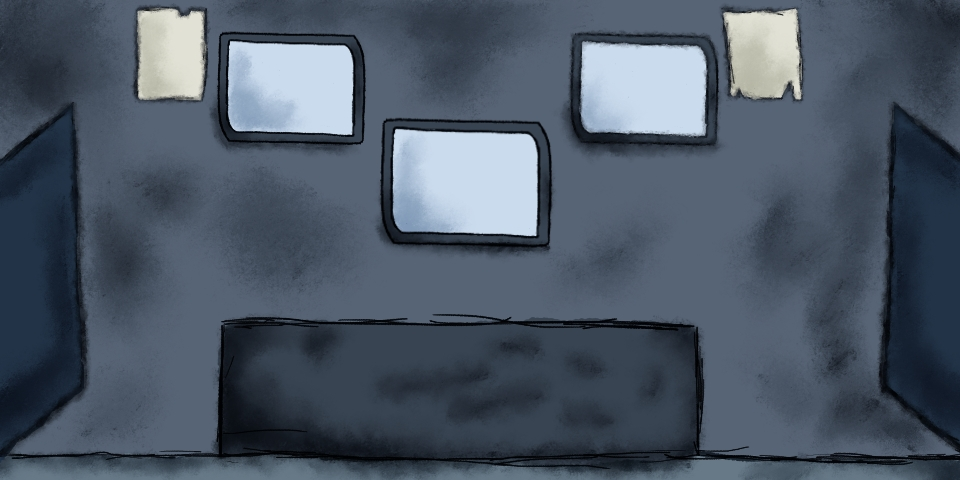
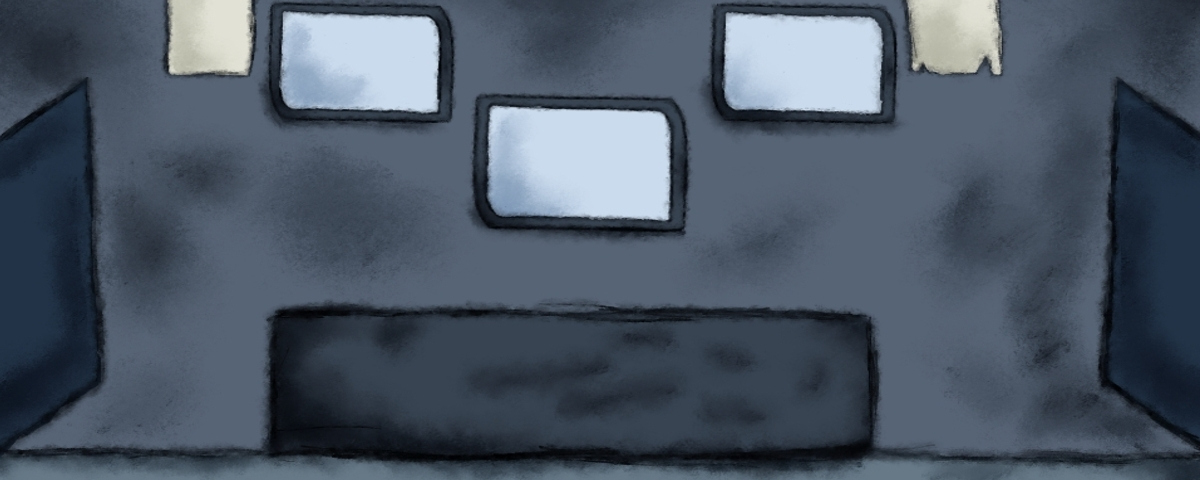
por las dudas

diff --git a/src/scenes/Game.js b/src/scenes/Game.js
@@ -28,21 +28,21 @@ export default class Game extends Phaser.Scene {
 
   create() {
     this.camerasV = this.input.keyboard.addKey(Phaser.Input.Keyboard.KeyCodes.DOWN);
-    this.add.image(320, 240, "room");
+    this.add.image(320, 220, "room");
     this.add
-      .image(-60, 250, "doorButton")
+      .image(-140, 250, "doorButton")
       .setScale(1)
 
     this.add
-      .image(700, 250, "doorButton")
+      .image(790, 250, "doorButton")
       .setScale(1)
 
     this.add
-      .image(-60, 200, "lightButton")
+      .image(-140, 200, "lightButton")
       .setScale(1)
 
     this.add
-      .image(700, 200, "lightButton")
+      .image(790, 200, "lightButton")
       .setScale(1)
     console.log("si");
 
@@ -100,10 +100,10 @@ export default class Game extends Phaser.Scene {
     this.rightShield = this.input.keyboard.addKey(
       Phaser.Input.Keyboard.KeyCodes.D
     );
-    this.leftLightOn = this.add.image(-120, 230, "leftDoorLight").setVisible(false)
-    this.leftShieldOn = this.add.image(-120, 230, "shield_doorleft").setVisible(false)
-    this.rightLightOn = this.add.image(750, 230, "rightDoorLight").setVisible(false)
-    this.rightShieldOn = this.add.image(750, 230, "shield_doorright").setVisible(false)
+    this.leftLightOn = this.add.image(-200, 230, "leftDoorLight").setVisible(false)
+    this.leftShieldOn = this.add.image(-200, 230, "shield_doorleft").setVisible(false)
+    this.rightLightOn = this.add.image(850, 230, "rightDoorLight").setVisible(false)
+    this.rightShieldOn = this.add.image(850, 230, "shield_doorright").setVisible(false)
 
   }
 

diff --git a/src/scenes/Preload.js b/src/scenes/Preload.js
@@ -34,7 +34,7 @@ export default class Preload extends Phaser.Scene {
     // this.load.image("openCameras", "assets/background/openCameras.jpg");
     // this.load.image("closeCameras", "assets/background/closeCameras.jpg");
 
-    this.load.image("gameOverI", "assets/background/gameover.png");
+    this.load.image("gameOverI", "assets/background/derrota.jpg");
     this.load.image("black", "assets/background/black.png");
 
 
@@ -66,8 +66,8 @@ export default class Preload extends Phaser.Scene {
   create() {
     this.anims.create({
       key: "turn",
-      frames: this.anims.generateFrameNumbers("player", { start: 3, end: 2 }),
-      frameRate: 1,
+      frames: this.anims.generateFrameNumbers("player", { start: 2, end: 3 }),
+      frameRate: 5,
       repeat: -1,
     });
 

diff --git a/src/scenes/gameOver.js b/src/scenes/gameOver.js
@@ -11,7 +11,12 @@ export default class GameOver extends Phaser.Scene {
         this.dead = data.dead || false;
       }
 create() {
-    this.add.image( 300, 320,"gameOverI")
+    this.add.text(300, 300, "Derrota", {
+        fontSize: "40px",
+        frontFamily: "Console",
+        color: "#00BFFF",
+      });
+    this.add.image( 300, 270,"gameOverI")
     setTimeout(() => {
         this.scene.start("menu")
       }, 10000);

diff --git a/src/main.js b/src/main.js
@@ -11,13 +11,13 @@ import PassedNight from "./scenes/passedNight";
 
 const config = {
   type: Phaser.AUTO,
-  width: 640,
+  width: 740,
   height: 480,
   scale: {
     mode: Phaser.Scale.FIT,
     autoCenter: Phaser.Scale.CENTER_BOTH,
     min: {
-      width: 640,
+      width: -200,
       height: 480,
     },
     max: {
